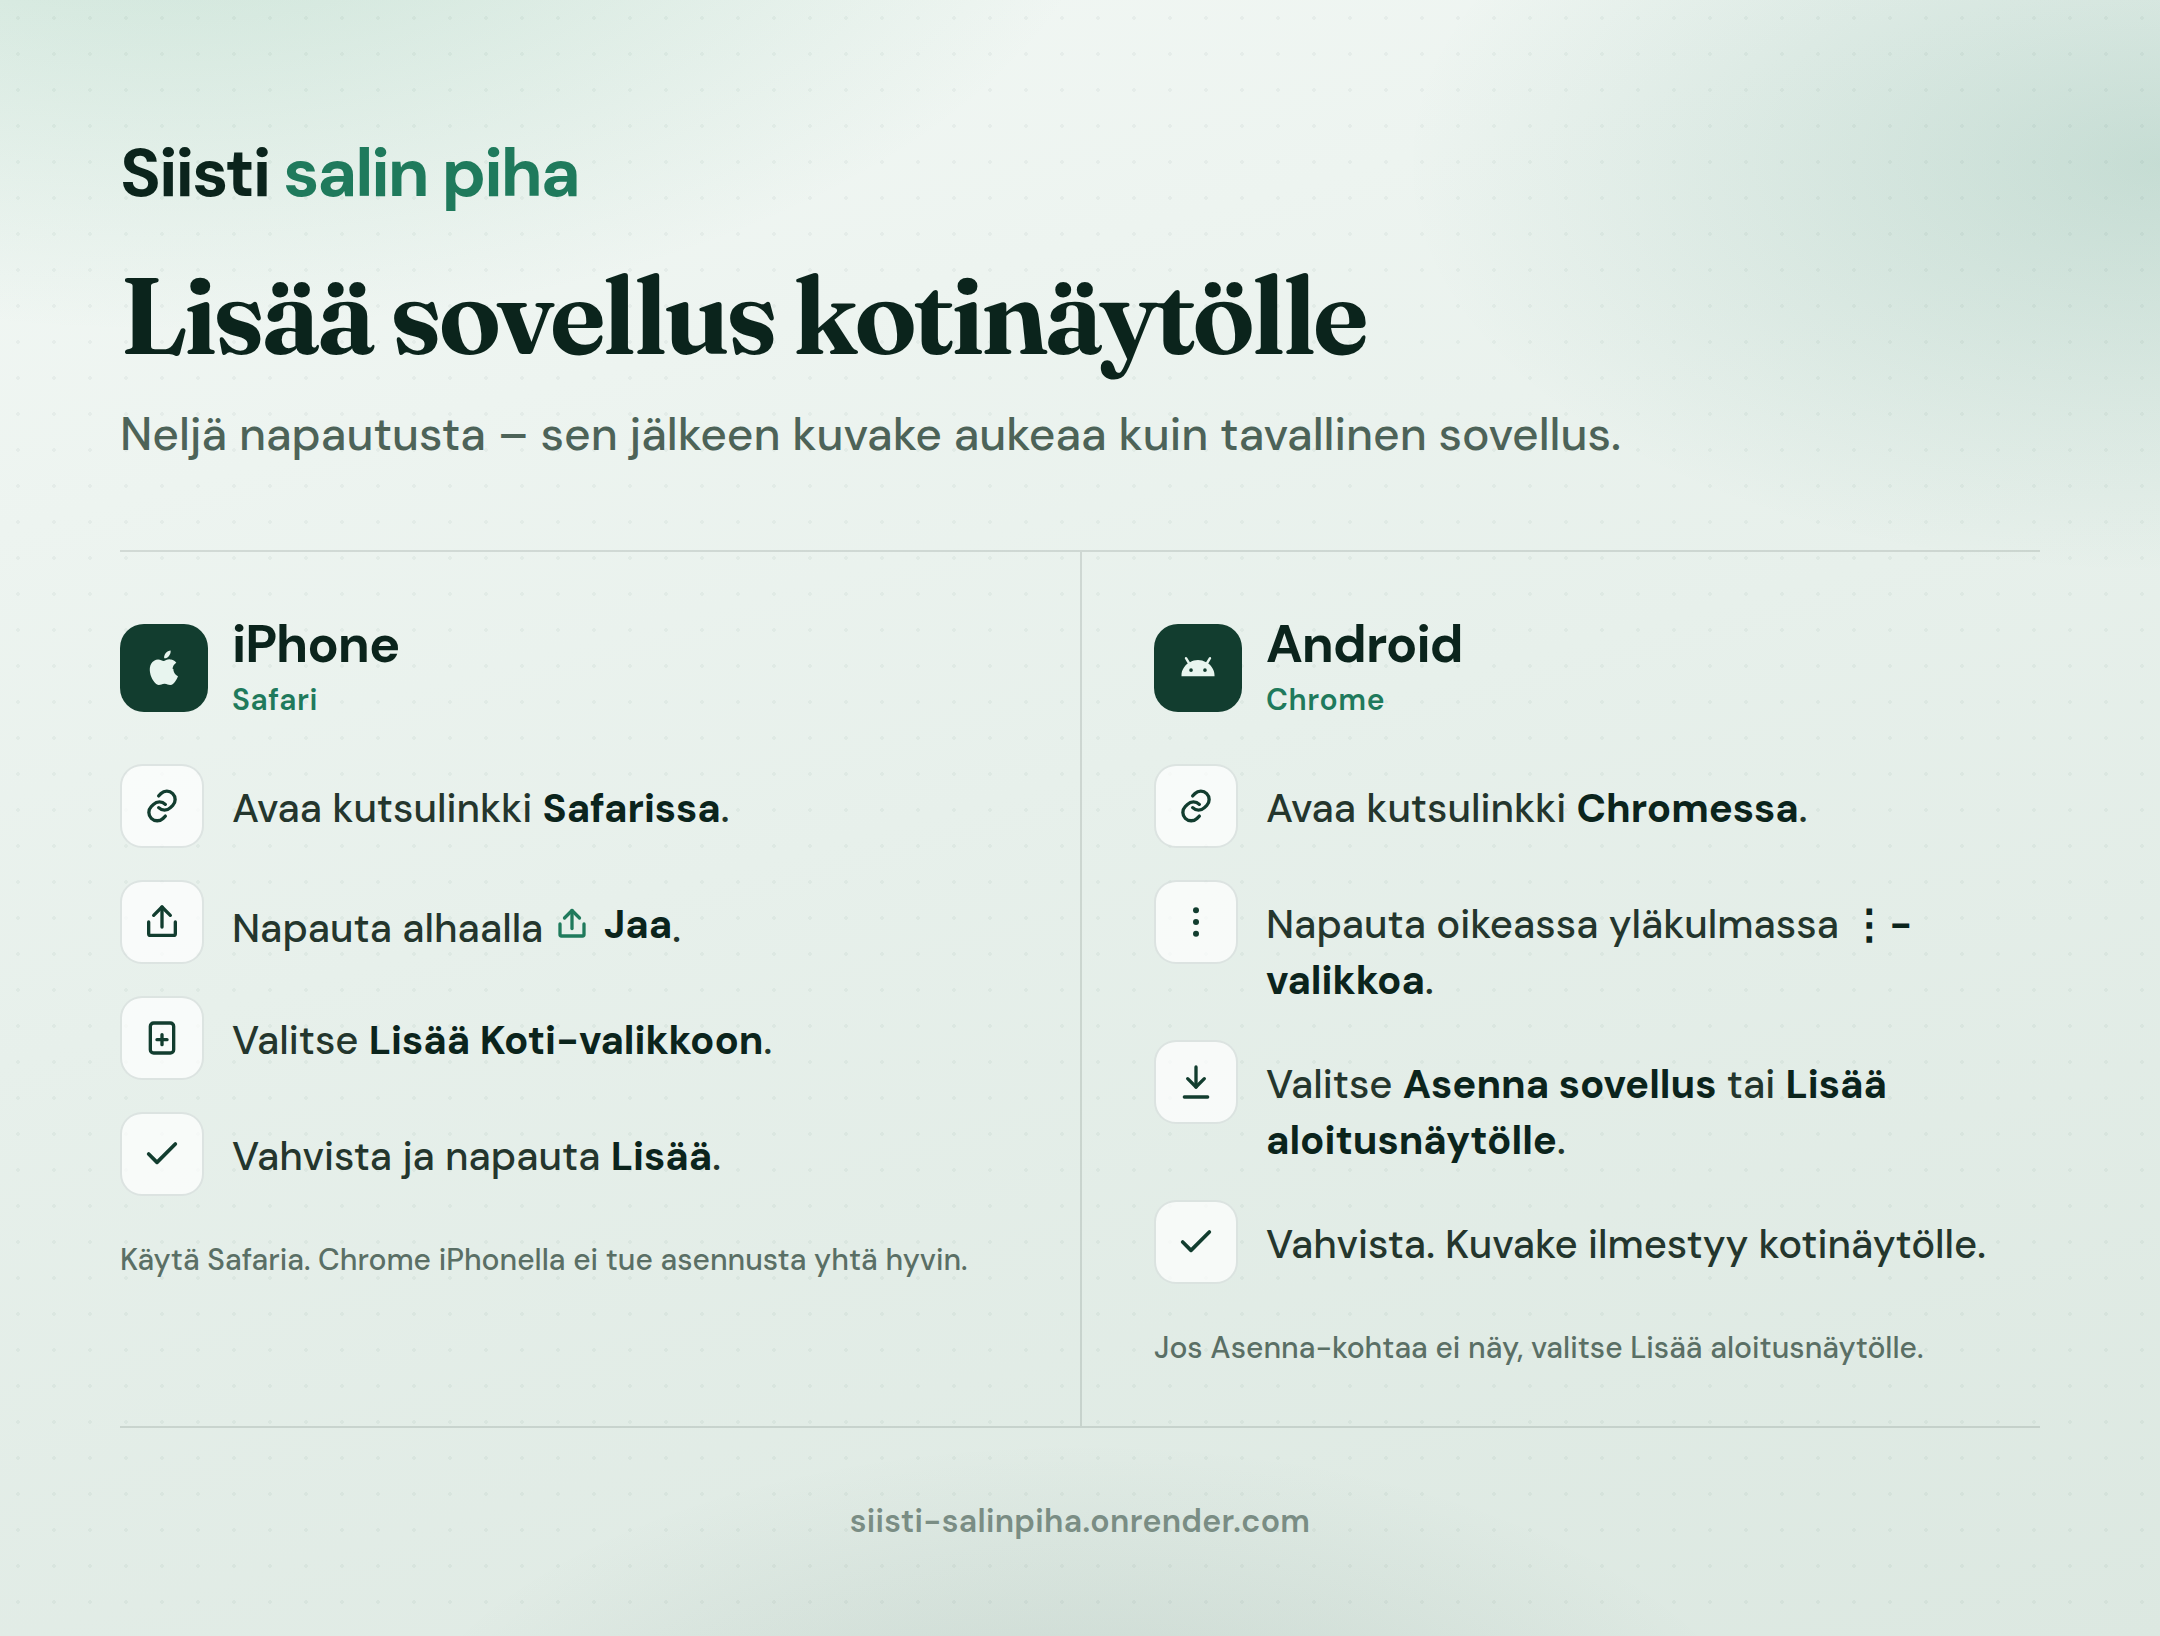
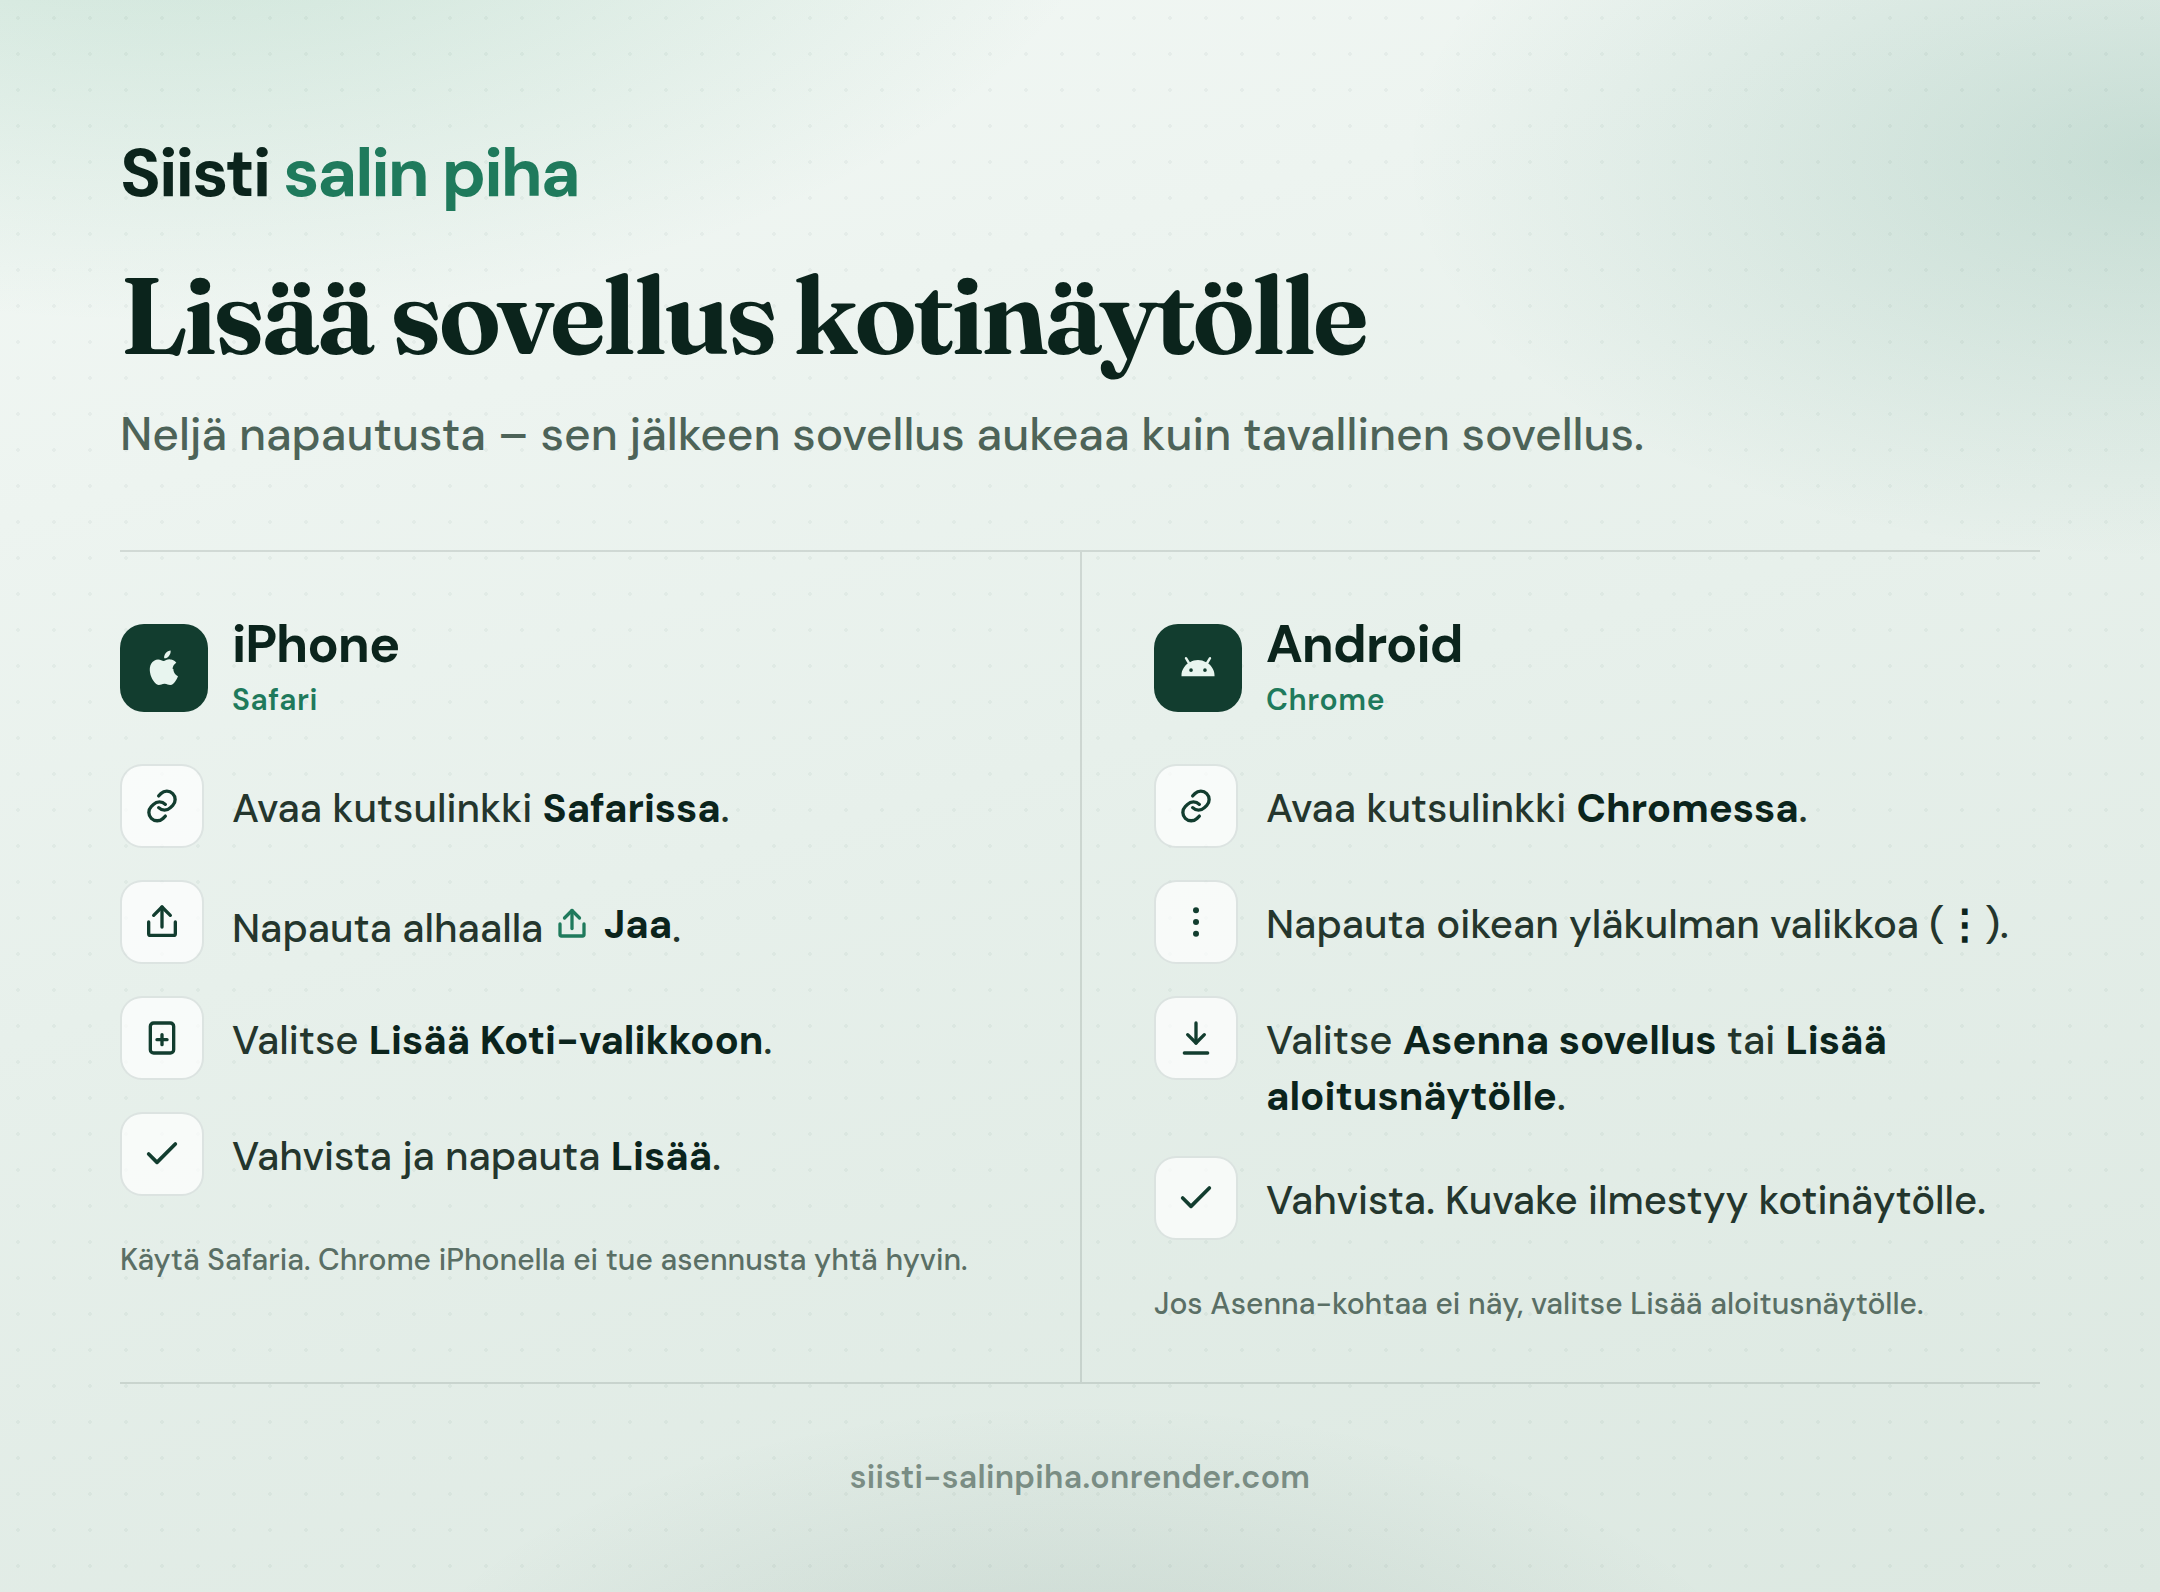
Tighten install guide wording and drop duplicate ohje bullets
Clarify Android menu wording, prefer “sovellus aukeaa”, and keep
Käyttöohje asennus section to one intro line above InstallTips.

diff --git a/src/components/InstallTips.tsx b/src/components/InstallTips.tsx
@@ -7,7 +7,7 @@ export function InstallTips({ compact = false }: Props) {
     <div className={`install-tips${compact ? ' is-compact' : ''}`}>
       {!compact && <h2>Lisää sovellus kotinäytölle</h2>}
       <p className="install-tips-lede">
-        Neljä napautusta – sen jälkeen kuvake aukeaa kuin tavallinen sovellus.
+        Neljä napautusta – sen jälkeen sovellus aukeaa kuin tavallinen sovellus.
       </p>
 
       <div className="install-tips-grid">
@@ -39,7 +39,7 @@ export function InstallTips({ compact = false }: Props) {
           <ol>
             <li>Avaa kutsulinkki <strong>Chromessa</strong>.</li>
             <li>
-              Napauta oikeassa yläkulmassa <strong>⋮-valikkoa</strong>.
+              Napauta oikean yläkulman valikkoa (<strong>⋮</strong>).
             </li>
             <li>
               Valitse <strong>Asenna sovellus</strong> tai{' '}

diff --git a/src/pages/UserGuidePage.tsx b/src/pages/UserGuidePage.tsx
@@ -15,9 +15,7 @@ const SECTIONS: { id: string; title: string; body: string[]; to?: string; linkLa
     id: 'asennus',
     title: 'Lisää kotinäytölle (iPhone / Android)',
     body: [
-      'Kun tili on luotu, lisää sovellus kotinäytölle — se aukeaa sitten kuin tavallinen sovellus.',
-      'iPhone: Safari → Jaa → Lisää Koti-valikkoon.',
-      'Android: Chrome → ⋮ → Asenna sovellus tai Lisää aloitusnäytölle.',
+      'Kun tili on luotu, lisää sovellus kotinäytölle. Se aukeaa sitten kuin tavallinen sovellus — ilman App Storea.',
     ],
   },
   {
